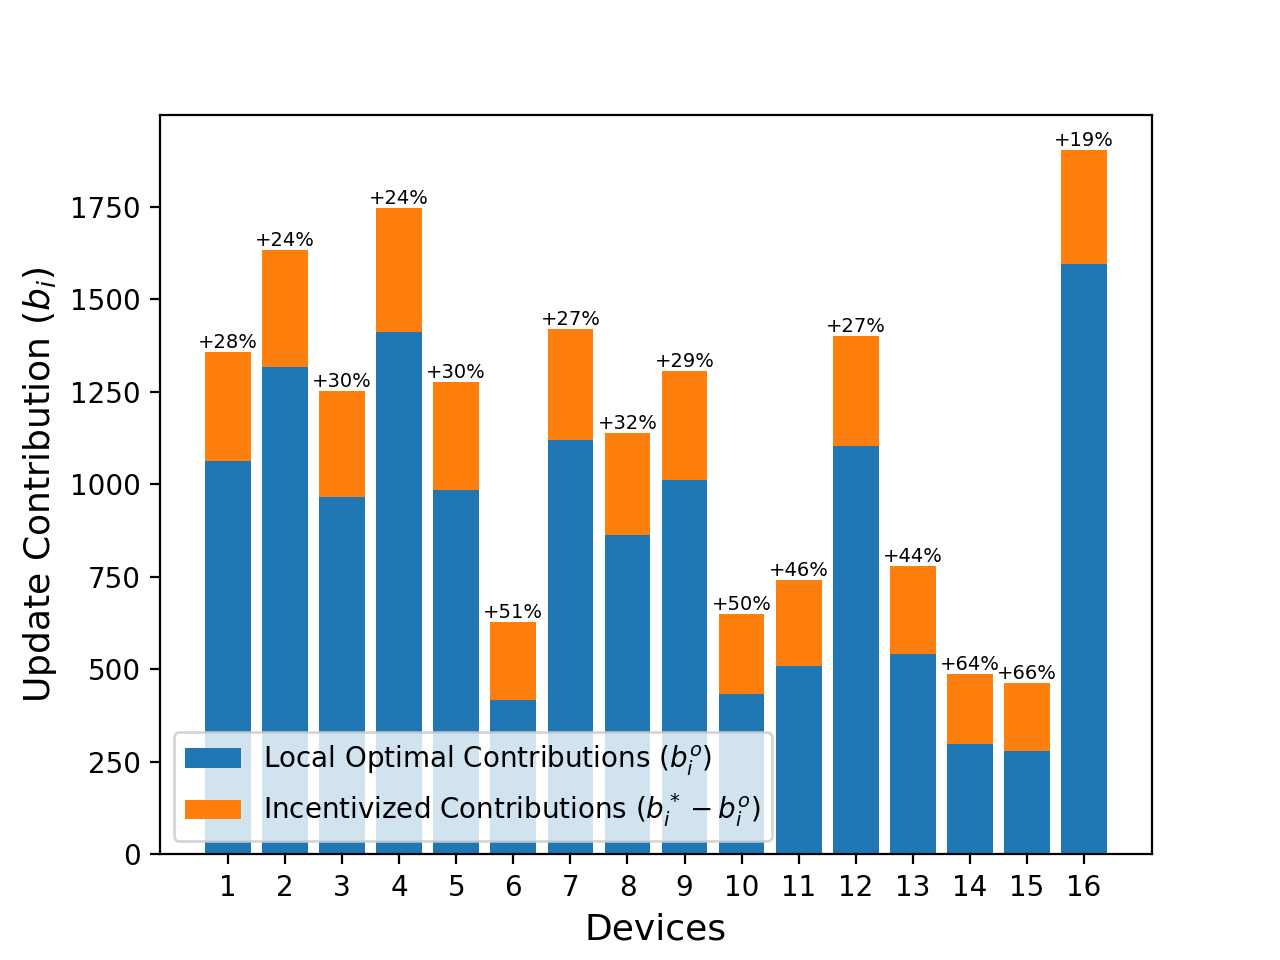
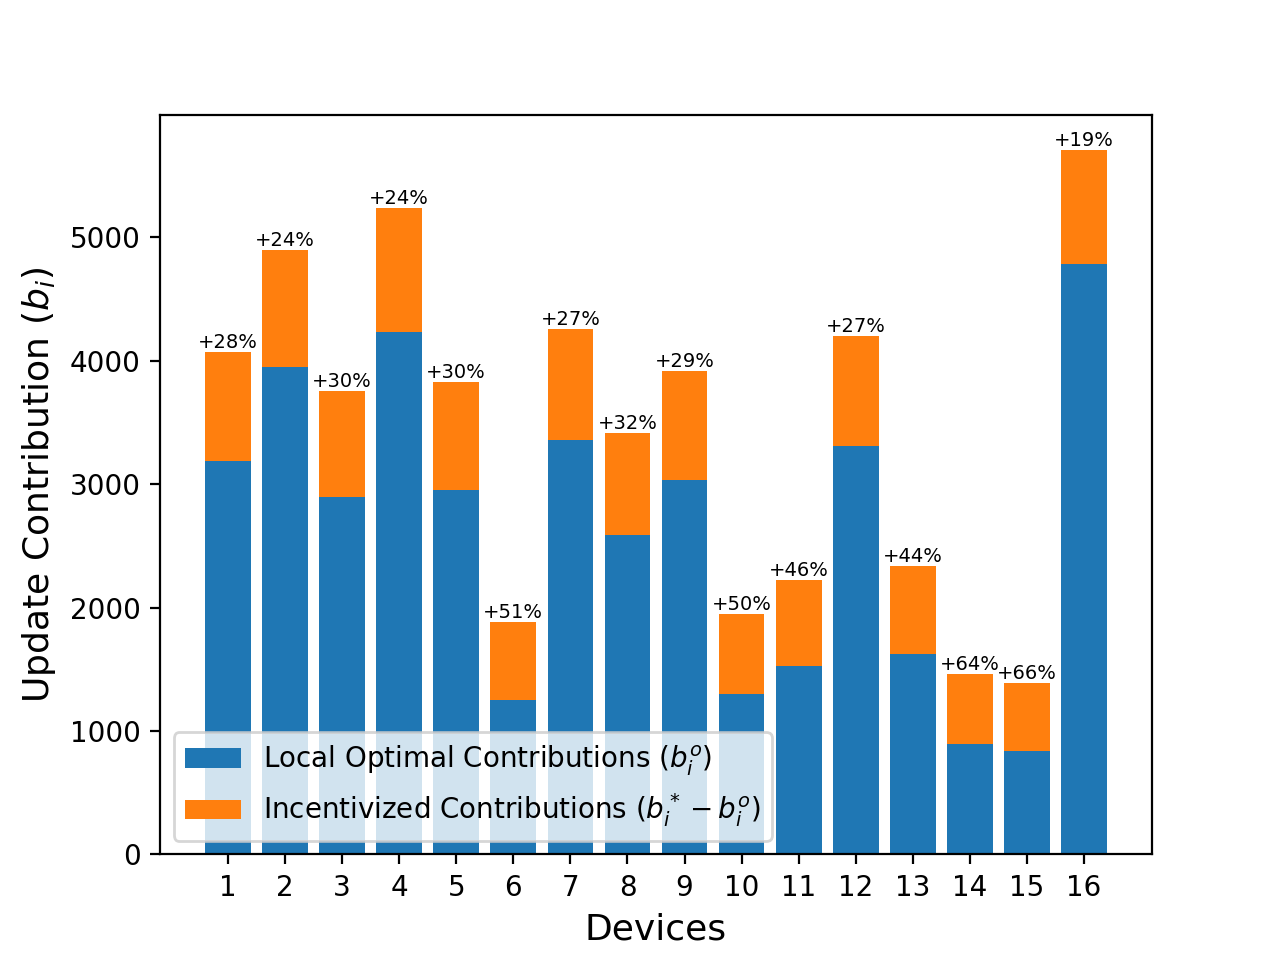
add new nice plots of results

diff --git a/plotter.py b/plotter.py
@@ -102,10 +102,10 @@ if __name__ == '__main__':
     # plot data contribution plot and bar chart
 
     # fed_a = y_mean[-1] * np.ones(nw)
-    local_b = np.empty((3, nw))
-    fed_b = np.empty((3, nw))
-    payoff_b = np.empty((3, nw))
-    uniform = True
+    local_b = np.ones((3, nw)) * np.nan
+    fed_b = np.ones((3, nw)) * np.nan
+    payoff_b = np.ones((3, nw)) * np.nan
+    uniform = False
 
     for trial in range(1, 4):
 
@@ -123,8 +123,8 @@ if __name__ == '__main__':
             fed_b[trial-1, :] = optimal_data[2, :]
 
     # local_a = np.mean(np.stack(each_dev_local_a, axis=0), axis=0)
-    local_b = np.mean(local_b, axis=0)
-    fed_b = np.mean(fed_b, axis=0)
+    local_b = np.nanmean(local_b, axis=0)
+    fed_b = np.nanmean(fed_b, axis=0)
 
     # bar plot
     # '''
@@ -144,9 +144,9 @@ if __name__ == '__main__':
         height = rect.get_height() + local_b[i]
         plt.text(rect.get_x() + rect.get_width() / 2.0, height, f'+{val:.0f}%', ha='center', va='bottom', fontsize=7)
 
-    savefilename2 = str(nw) + 'device-bar' + '.png'
-    plt.savefig(savefilename2, dpi=200)
-    # plt.show()
+    savefilename2 = str(nw) + 'device-bar-mean' + '.png'
+    # plt.savefig(savefilename2, dpi=200)
+    plt.show()
     # '''
 
     # scatter plot

diff --git a/fed_batch.py b/fed_batch.py
@@ -70,7 +70,7 @@ if __name__ == '__main__':
     if uniform_cost:
         marginal_cost = marginal_cost
     else:
-        marginal_cost = np.random.normal(marginal_cost, 0.3*marginal_cost)
+        marginal_cost = np.random.normal(marginal_cost, 0.1*marginal_cost)
 
     if uniform_payoff and uniform_cost:
         nu = False
